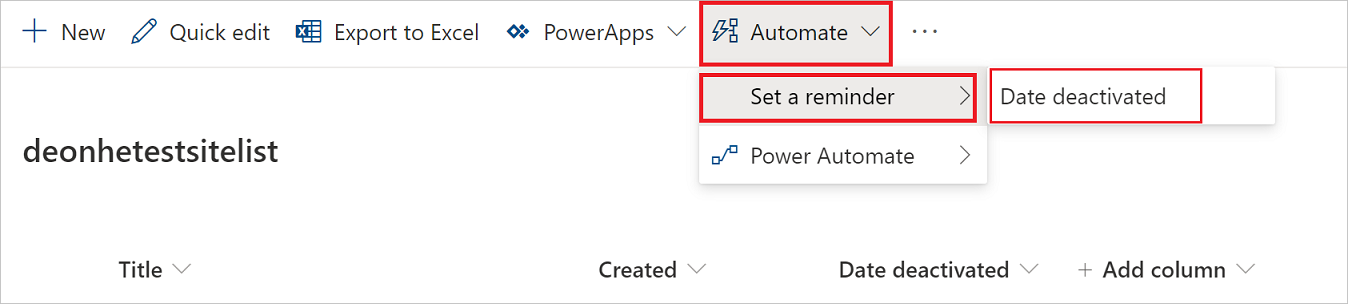
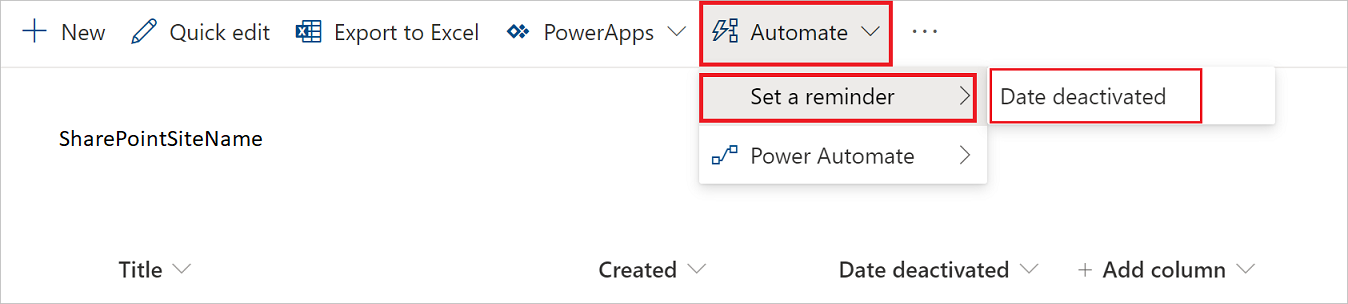
Updates from editor comments

Changed region(s): [[0.0, 0.4145, 0.2181, 0.5329]]

diff --git a/articles/customize-sharepoint-page-approvals.md b/articles/customize-sharepoint-page-approvals.md
@@ -13,12 +13,9 @@ ms.subservice: cloud-flow
 ms.topic: article
 ms.tgt_pltfrm: na
 ms.workload: na
-ms.date: 05/02/2022
+ms.date: 05/17/2022
 ms.author: deonhe
 ---
-
-<!-- question from editor: In the first note, does it mean approvals isn't available in ANY government cloud environments, or is it available in SOME but not ALL government cloud environments? -->
-<!-- Do the two steps under line 72 need to be done in that order? If so, change to a numbered list. -->
 
 
 # Manage SharePoint page approvals with Power Automate
@@ -28,11 +25,11 @@ SharePoint site admins can use Power Automate to require new or updated site pag
 In this article, you'll learn how to configure your SharePoint site to use a cloud flow to require changes to the site to be approved before they go live.
 
 >[!NOTE]
->SharePoint approvals isn't available in all government cloud environments.
+>SharePoint approvals isn't available in government cloud environments.
 
 ## Configure SharePoint for page approvals
 
-### Prerequisites 
+### Prerequisites
 
 You must be a SharePoint site admin to perform the activities in this article.
 
@@ -69,18 +66,18 @@ The page approval flow is just like any other flow, so it's listed in the **My f
 
 ## Submit a page for approval
 
-Now that you've created a page approval flow, anyone who adds or changes a page will need to do the following steps:
+Now that you've created a page approval flow, anyone who adds or changes a page will need to do the following steps.
 
- - Make a change to the site (add a new page, for example) and then save the change.
+ 1. Make a change to the site (add a new page, for example) and then save the change.
 
     > [!div class="mx-imgBorder"]
     > ![Screenshot that shows the create option.](media/customize-sharepoint-page-approvals/create-new-page.png "Create option")
 
- - Wait for someone to approve the change.
+ 1. Wait for someone to approve the change.
 
     > [!div class="mx-imgBorder"]
     > ![Screenshot that shows when approval is pending.](media/customize-sharepoint-page-approvals/wait-for-approval.png "Approval is pending")
-    
+
 ## Approve a page
 
 Approvers receive an email whenever there's a page approval request. They can approve the requests directly in the email if their email client supports actionable messages. Alternatively, they can open the page from the email to review, and then approve the page in SharePoint.
@@ -93,10 +90,9 @@ Because page approvals use Power Automate behind the scenes, the page approval f
 
 Only the specific triggers and actions that are used by a page approval flow are supported for use on a Pages library. All other SharePoint triggers and actions aren't supported.
 
-## More information
+### More information
 
 - [Page approval flow](https://support.office.com/article/page-approval-flow-a8b2e689-d4a1-4639-8028-333c0ece30d9)
 - [Configure page approval](https://support.office.com/article/configure-page-approval-14ce6976-a0a7-427b-b4ab-d28d344a5222)
-
 
 [!INCLUDE[footer-include](includes/footer-banner.md)]

diff --git a/articles/create-sharepoint-reminder-flows.md b/articles/create-sharepoint-reminder-flows.md
@@ -13,11 +13,9 @@ ms.subservice: cloud-flow
 ms.topic: article
 ms.tgt_pltfrm: na
 ms.workload: na
-ms.date: 05/02/2022
+ms.date: 05/17/2022
 ms.author: deonhe
 ---
-
-<!-- from editor: The first image, select-reminder-flow.png, shouldn't show Deon's alias (deonhetestsitelist). Can "deonhe" be removed? --> 
 
 # SharePoint remind me
 
@@ -33,7 +31,7 @@ Lists created with Microsoft Lists and SharePoint libraries allow you to define 
 
 ## Create a reminder flow
 
- 1. [Create a list in Microsoft Lists](https://support.office.com/article/Create-a-list-in-SharePoint-0D397414-D95F-41EB-ADDD-5E6EFF41B083) with at least one DateTime column in the current view. 
+ 1. [Create a list in Microsoft Lists](https://support.office.com/article/Create-a-list-in-SharePoint-0D397414-D95F-41EB-ADDD-5E6EFF41B083) with at least one DateTime column in the current view.
  1. Select **Automate** > **Set a reminder** > **Date deactivated** (this is the column with the DateTime for the reminder).
 
     > [!div class="mx-imgBorder"]

diff --git a/articles/sharepoint-overview.md b/articles/sharepoint-overview.md
@@ -13,7 +13,7 @@ ms.subservice: cloud-flow
 ms.topic: overview
 ms.tgt_pltfrm: na
 ms.workload: na
-ms.date: 05/02/2022
+ms.date: 05/17/2022
 ms.author: deonhe
 search.app: 
   - Flow
